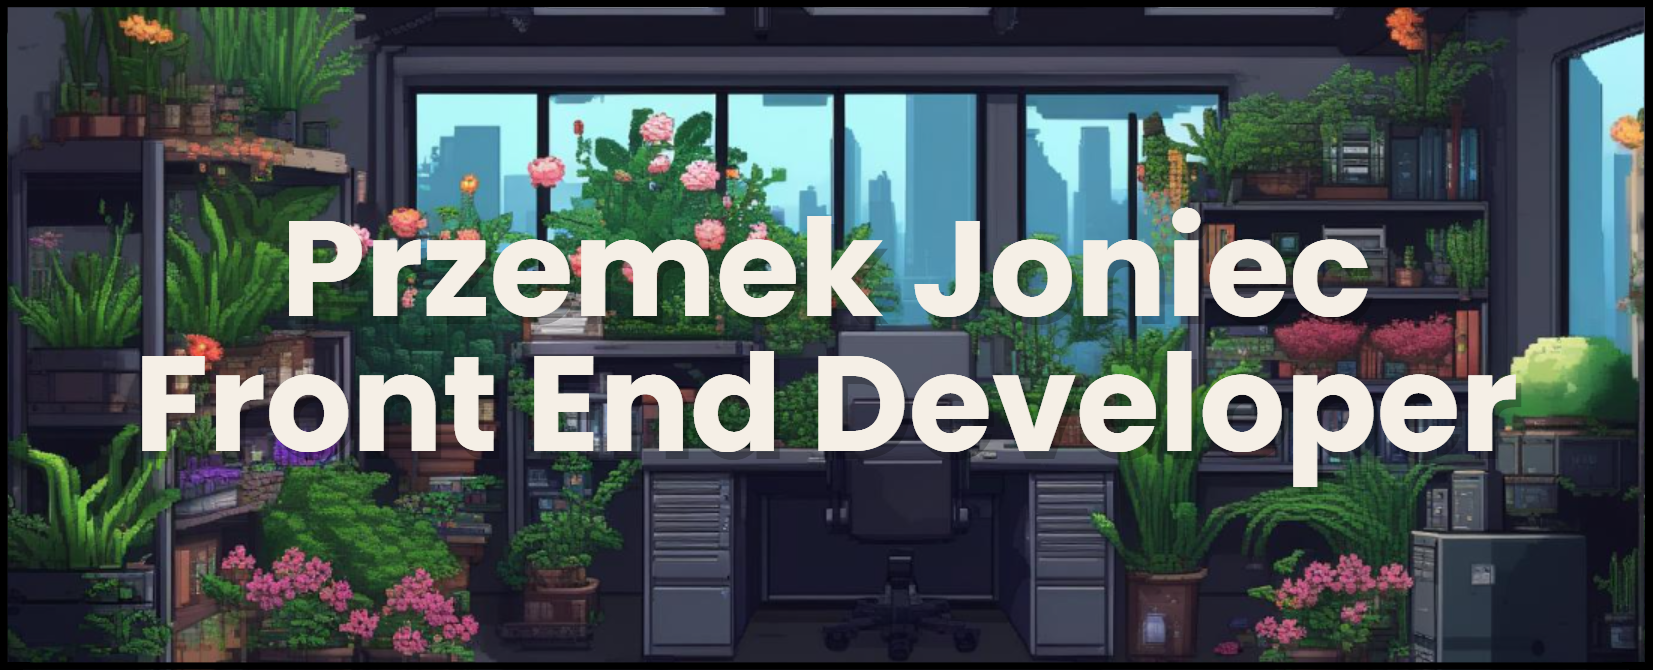
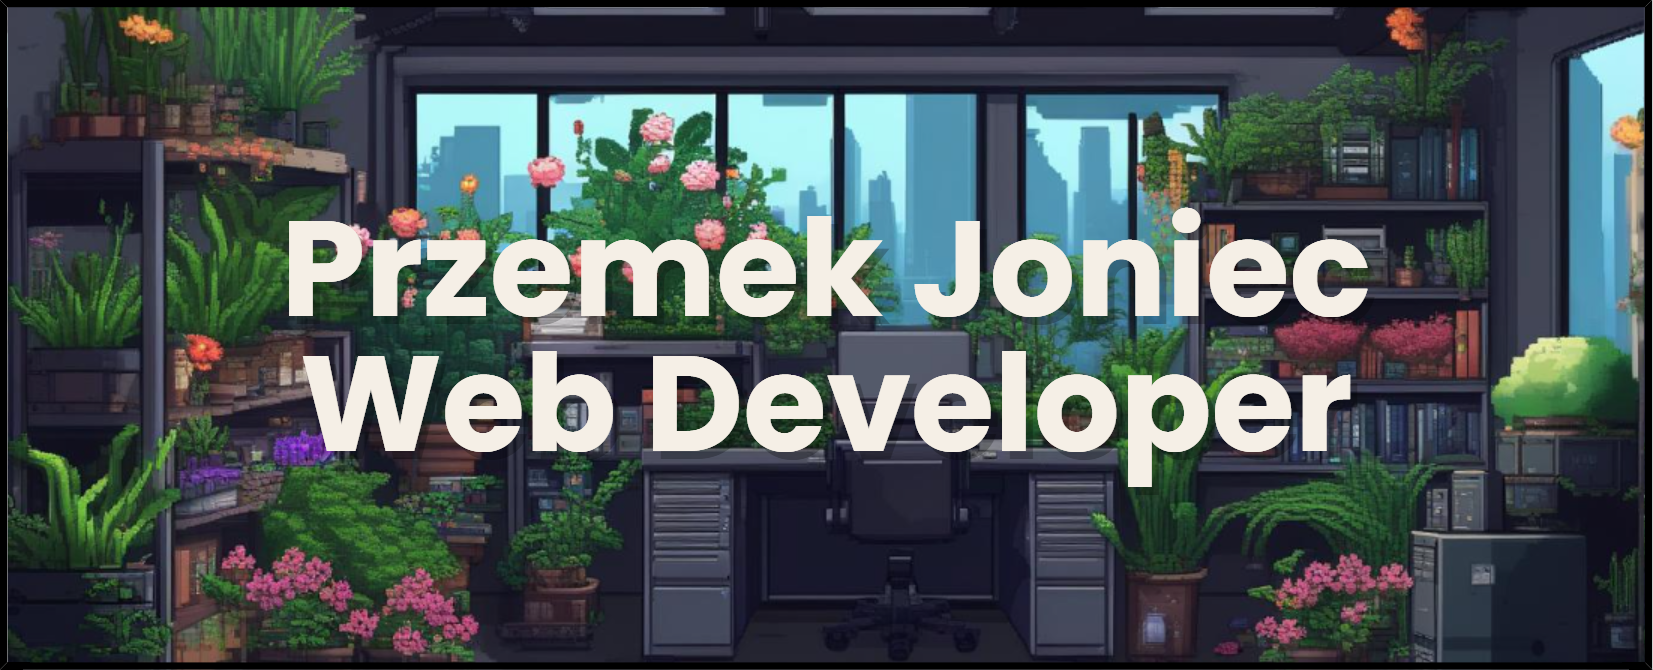
Add badges

Changed region(s): [[0.0617, 0.5075, 0.5554, 0.6866], [0.5862, 0.5075, 0.9256, 0.7463]]

diff --git a/README.md b/README.md
@@ -4,7 +4,7 @@
 
 [![Visitor](https://visitor-badge.laobi.icu/badge?page_id=przemekjoniec.przemekjoniec)](https://github.com/przemekjoniec) [![GitHub followers](https://img.shields.io/github/followers/przemekjoniec.svg?style=social&label=Follow)](https://github.com/przemekjoniec?tab=followers)
 
-🌻I'm Przemek Joniec!
+🌻I'm Przemek Joniec! Passionate Web Developer.
 
 - <i>I'm doing a course's:</i> The Odin Project, and Web Development Bootcamp from Dr. Angela Yu
 - <i>All of my projects are available at</i> https://github.com/przemekjoniec?tab=repositories
@@ -16,7 +16,7 @@
 
 <h2>👨🏼💻I'm Currently Learning:</h2>
 
--Javascript
+<img src="https://img.shields.io/badge/JavaScript-323330?style=for-the-badge&logo=javascript&logoColor=F7DF1E" />
 
 <h2>💻 Tech Stack:</h2>
 <p align="center">
